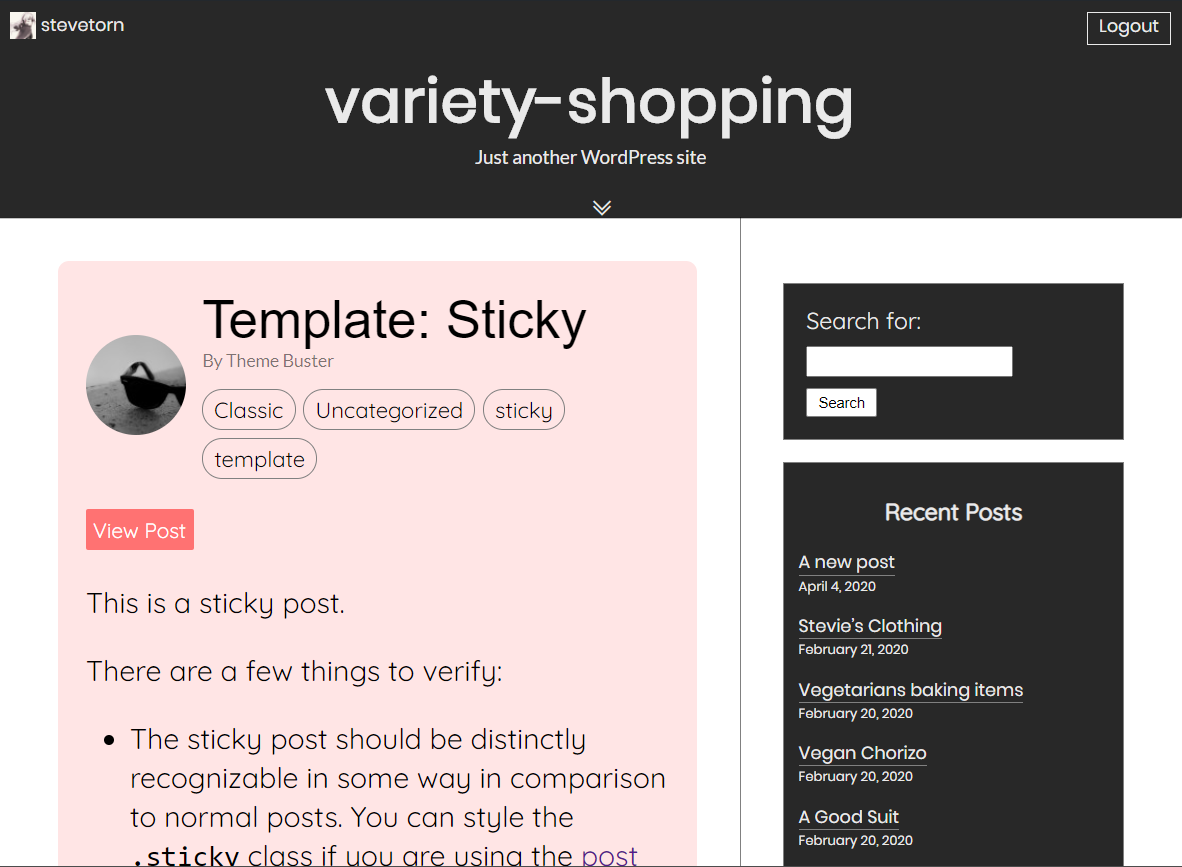
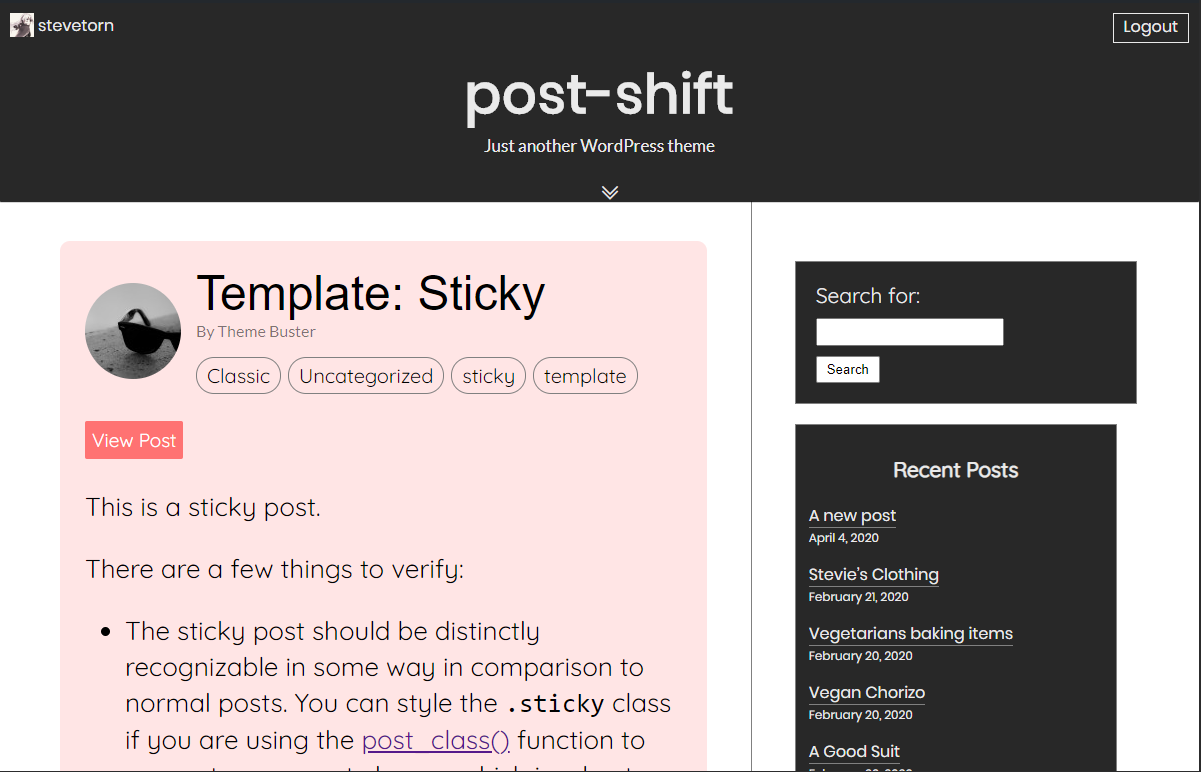
fixed a few issues.

diff --git a/style.css b/style.css
@@ -8,7 +8,7 @@ Version: 1.0
 License: GNU General Public License v2 or later
 License URI: http://www.gnu.org/licenses/gpl-2.0.html
 Text Domain: post-shift
-Tags: blog, food-and-drink, right-sidebar, custom-menu, sticky-post, featured-images
+Tags: blog, news, education, two-columns, right-sidebar, custom-menu, custom-background, custom-logo, editor-style, sticky-post, featured-images, translation-ready
 */
 
 :root {

diff --git a/category.php b/category.php
@@ -1,4 +1,3 @@
-<?php include("classes/categoryClass.php"); ?>
 <?php get_header(); ?>
 <div class="main-container">
     <div class="main-posts-container">
@@ -35,12 +34,12 @@
             <?php } else {
                 $parent_category = $wp_query->get_queried_object(); ?>
                 <a class="main-current-directory-link" href="<?php echo esc_url(get_category_link($parent_category->term_id)) ?>"><?php printf(esc_html__('%s', 'post-shift'), $parent_category->name) ?></a>
-                <i class="las la-arrow-right"></i>
                 <?php $child_categories = get_categories(array(
                     "parent" => $parent_category->term_id
                 ));
-                if (count($child_categories) > 0) {
-                    foreach ($child_categories as $key => $child_category) { ?>
+                if (count($child_categories) > 0) { ?>
+                    <i class="las la-arrow-right"></i>
+                    <?php foreach ($child_categories as $key => $child_category) { ?>
                         <a class="main-directories-links" href="<?php echo esc_url(get_category_link($child_category->term_id)) ?>"><?php printf(esc_html__('%s', 'post-shift'), $child_category->name) ?></a>
                         <?php if ($key !== count($child_categories) - 1) { ?>
                             <i class="las la-grip-lines-vertical"></i>
